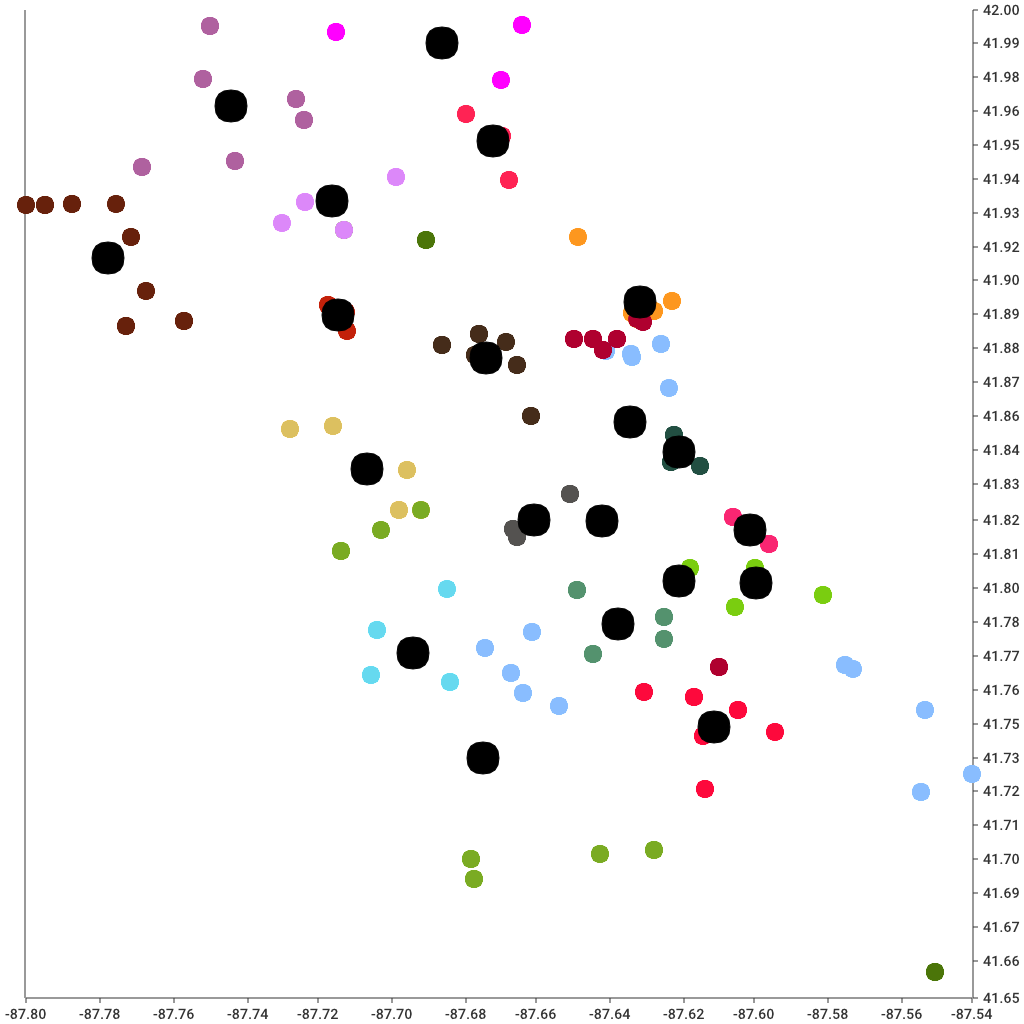
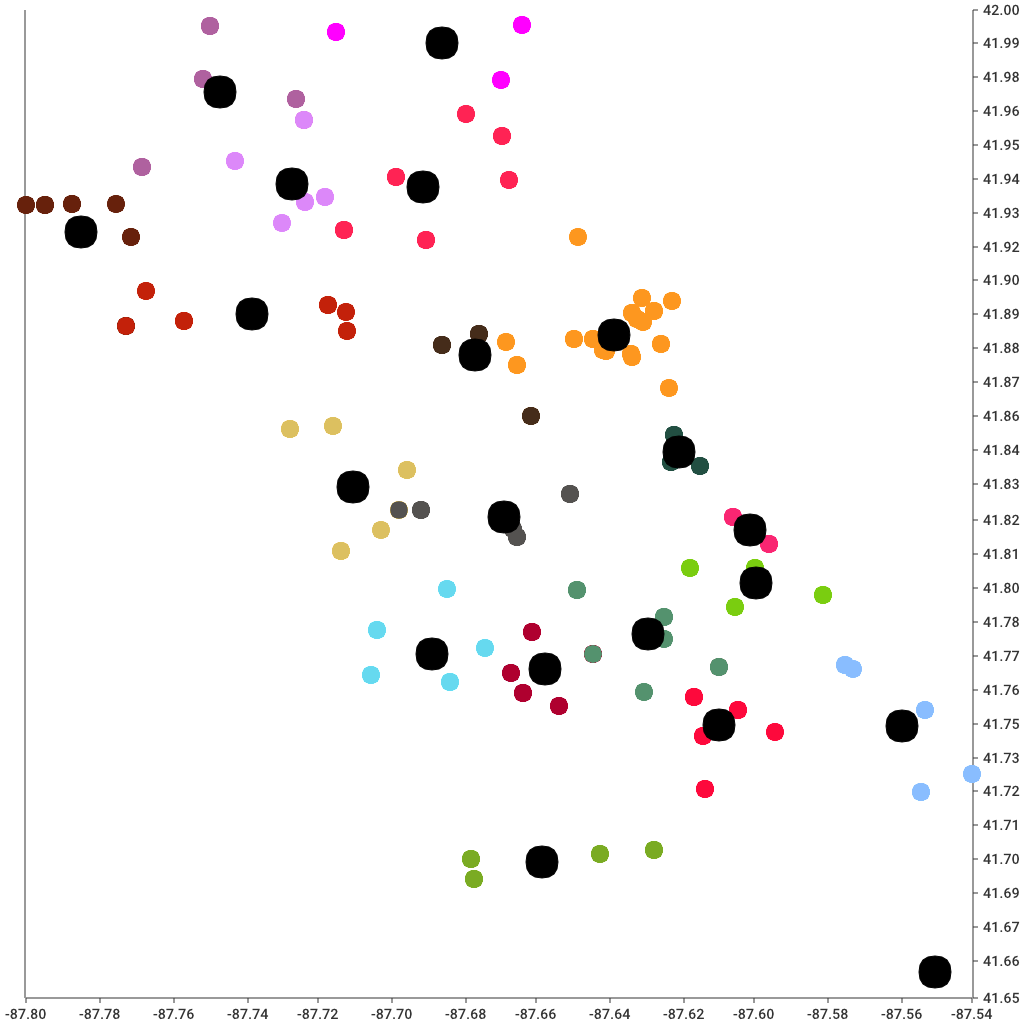
tiap 1 iterasi, 1 step

diff --git a/main.go b/main.go
@@ -15,7 +15,6 @@ import (
 	"encoding/csv"
 	"fmt"
 	"os"
-	"sort"
 	"strconv"
 )
 
@@ -44,63 +43,34 @@ func main() {
 	iter := 0
 	for max-min > 10 {
 		var count3 []int
-		type sorted struct {
-			cl int
-			dt float64
-		}
-		var sortcd []sorted
-		for i, _ := range clusters {
-			// search nearest neighbour
-			// r, cd := clusters.Neighbour(clusters[i].Center, 0)
-			// for _, p := range clusters[i].Observations {
-			// r, _ = c.Neighbour(p, A)
-			distA := clusters[0].Center.Distance(clusters[i].Center)
-			sortcd = append(sortcd, sorted{
-				i,
-				distA,
-			})
-			// }
-		}
-		sort.SliceStable(sortcd, func(i, j int) bool {
-			return sortcd[i].dt < sortcd[j].dt
-		})
+
 		//  Plan the steps of adjustment among clusters;
-		// 19 step (0, 1) (1,2), dst
+
 		for i := 0; i < len(clusters); i++ {
 
 			// cc, _ := New(20, clusters[i].Observations)
 			var diffA Observations
 			var diffB []diffsort
 
-			if len(clusters[i].Observations) < 102 {
-				continue
-			}
+			if len(clusters[i].Observations) > 102 {
+				//call borderadjust, get new cluster A & B
+				//cari neighbour yang isinya sedikit (HOW?)
+				B, _ := clusters.Neighbour(clusters[i].Center, i)
+				if len(clusters[B].Observations) > 102 {
+					fmt.Println("overload")
+				}
+				diffA, diffB = clusters.borderadjust(i, B)
 
-			fmt.Println(sortcd)
-			//call borderadjust, get new cluster A & B
-			if i < (len(clusters) - 1) {
-				// B, _ = clusters.Neighbour(clusters[i].Observations[i], i)
-				diffA, diffB = clusters.borderadjust(sortcd[i].cl, sortcd[i+1].cl)
-			} else {
-				diffA, diffB = clusters.borderadjust(sortcd[i].cl, sortcd[0].cl)
-			}
-
-			if len(diffA) == 0 && len(diffB) == 0 {
-				continue
-			} else if len(diffA) != 0 && len(diffB) != 0 {
-				clusters[sortcd[i].cl].Observations = diffA
-				if i < (len(clusters) - 1) {
-					for j := 0; j < len(diffB); j++ {
-						clusters[sortcd[i+1].cl].Observations = append(clusters[sortcd[i+1].cl].Observations, diffB[j].data)
-					}
-				} else {
-					for j := 0; j < len(diffB); j++ {
-						clusters[sortcd[0].cl].Observations = append(clusters[sortcd[0].cl].Observations, diffB[j].data)
+				if len(diffA) == 0 && len(diffB) == 0 {
+					continue
+				} else if len(diffA) != 0 && len(diffB) != 0 {
+					clusters[i].Observations = diffA
+					if i < (len(clusters) - 1) {
+						for j := 0; j < len(diffB); j++ {
+							clusters[B].Observations = append(clusters[B].Observations, diffB[j].data)
+						}
 					}
 				}
-				// for j := 0; j < len(diffB); j++ {
-				// 	clusters[B].Observations = append(clusters[B].Observations, diffB[j].data)
-				// }
 			}
 			clusters.Recenter()
 		}

diff --git a/borderadjust.go b/borderadjust.go
@@ -20,23 +20,24 @@ func (c Clusters) borderadjust(A int, B int) (Observations, []diffsort) {
 	var obsB Observations
 
 	for _, p := range c[A].Observations {
-		// r, _ = c.Neighbour(p, A)
+
 		distA := p.Distance(c[A].Center)
 		distB := p.Distance(c[B].Center)
+
 		//  Calculate diff(p, B) based on (2);
 		diff = append(diff, diffsort{distB - distA, p})
-		// fmt.Println(A, B, "then", ci)
 	}
+
 	//  Sort all the diff(p, B) ascending;
 	sort.SliceStable(diff, func(i, j int) bool {
 		return diff[i].differ < diff[j].differ
 	})
+
 	//  Move the first m point in area A based on sorted
 	// diff(p, B) to area B;
-	// n := rand.Intn(103-101) + 101
-	// chunkSize := (len(d) + 20 - 1) / 20
-	if len(c[A].Observations) > 102 && len(c[A].Observations) > len(c[B].Observations) {
-		m := len(c[A].Observations) - 102
+	chunkSize := (len(d) + 20 - 1) / 20
+	if len(c[A].Observations) > chunkSize && len(c[A].Observations) > len(c[B].Observations) {
+		m := len(c[A].Observations) - chunkSize
 		for i := 0; i < m; i++ {
 			// move to B
 			diffB = append(diffB, diff[i])
